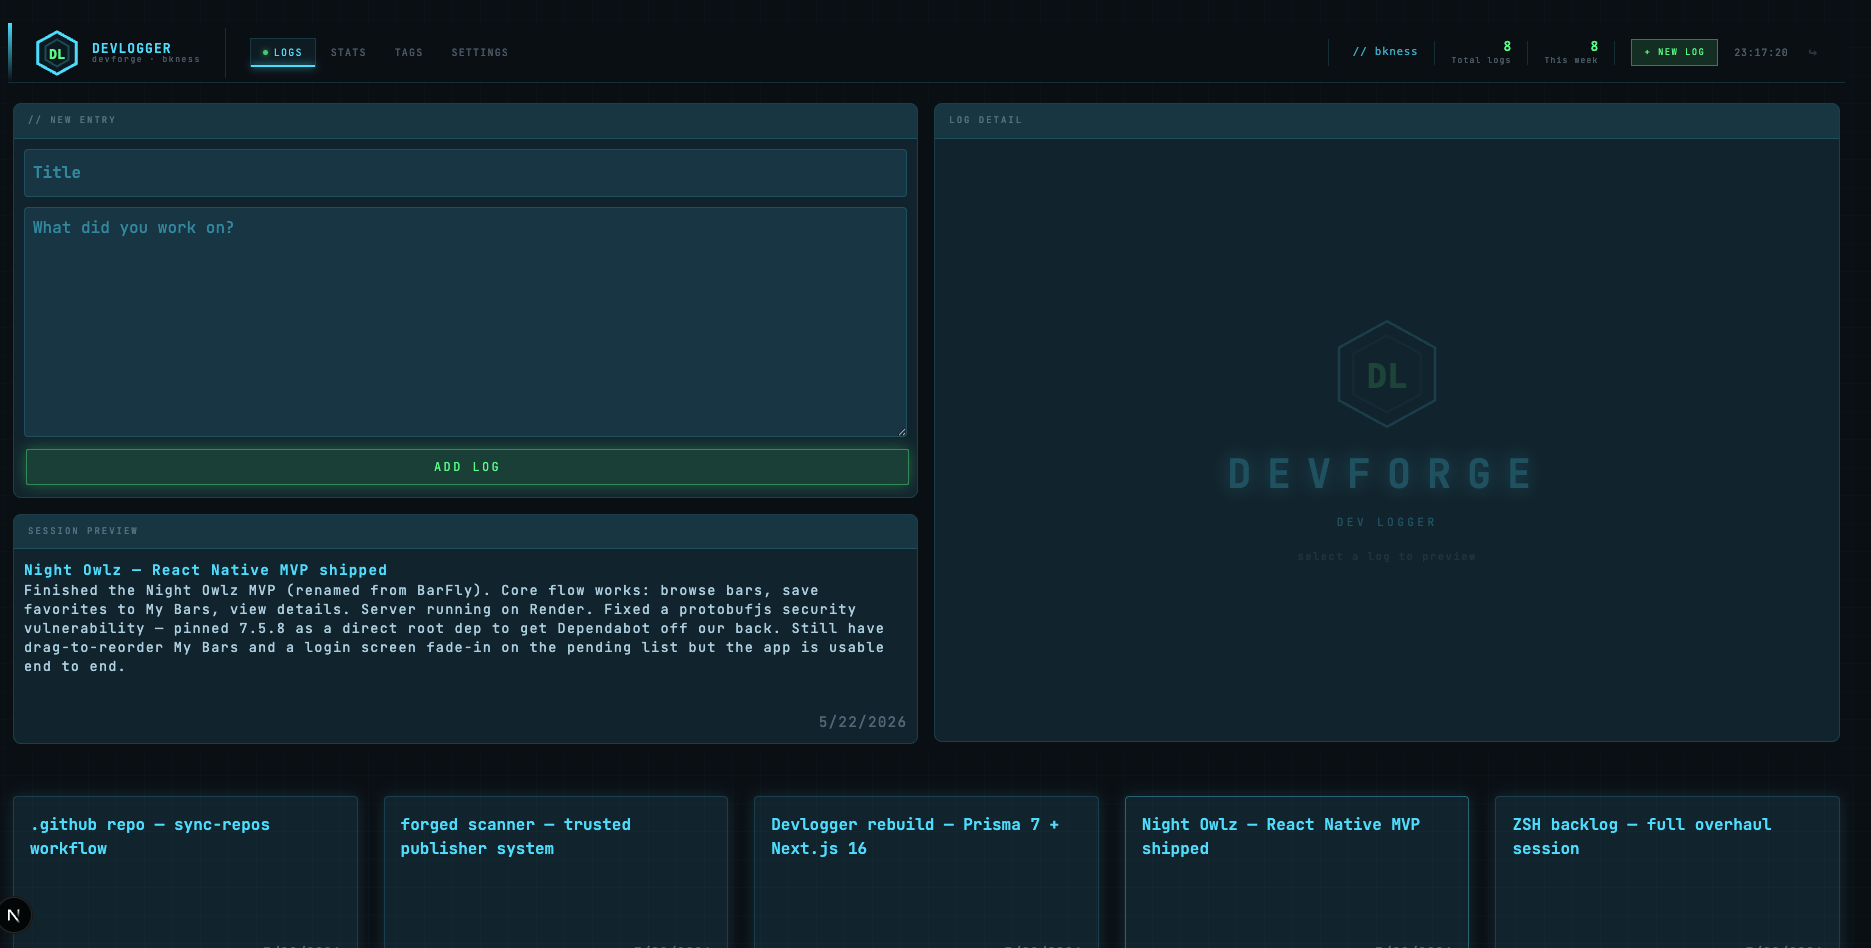
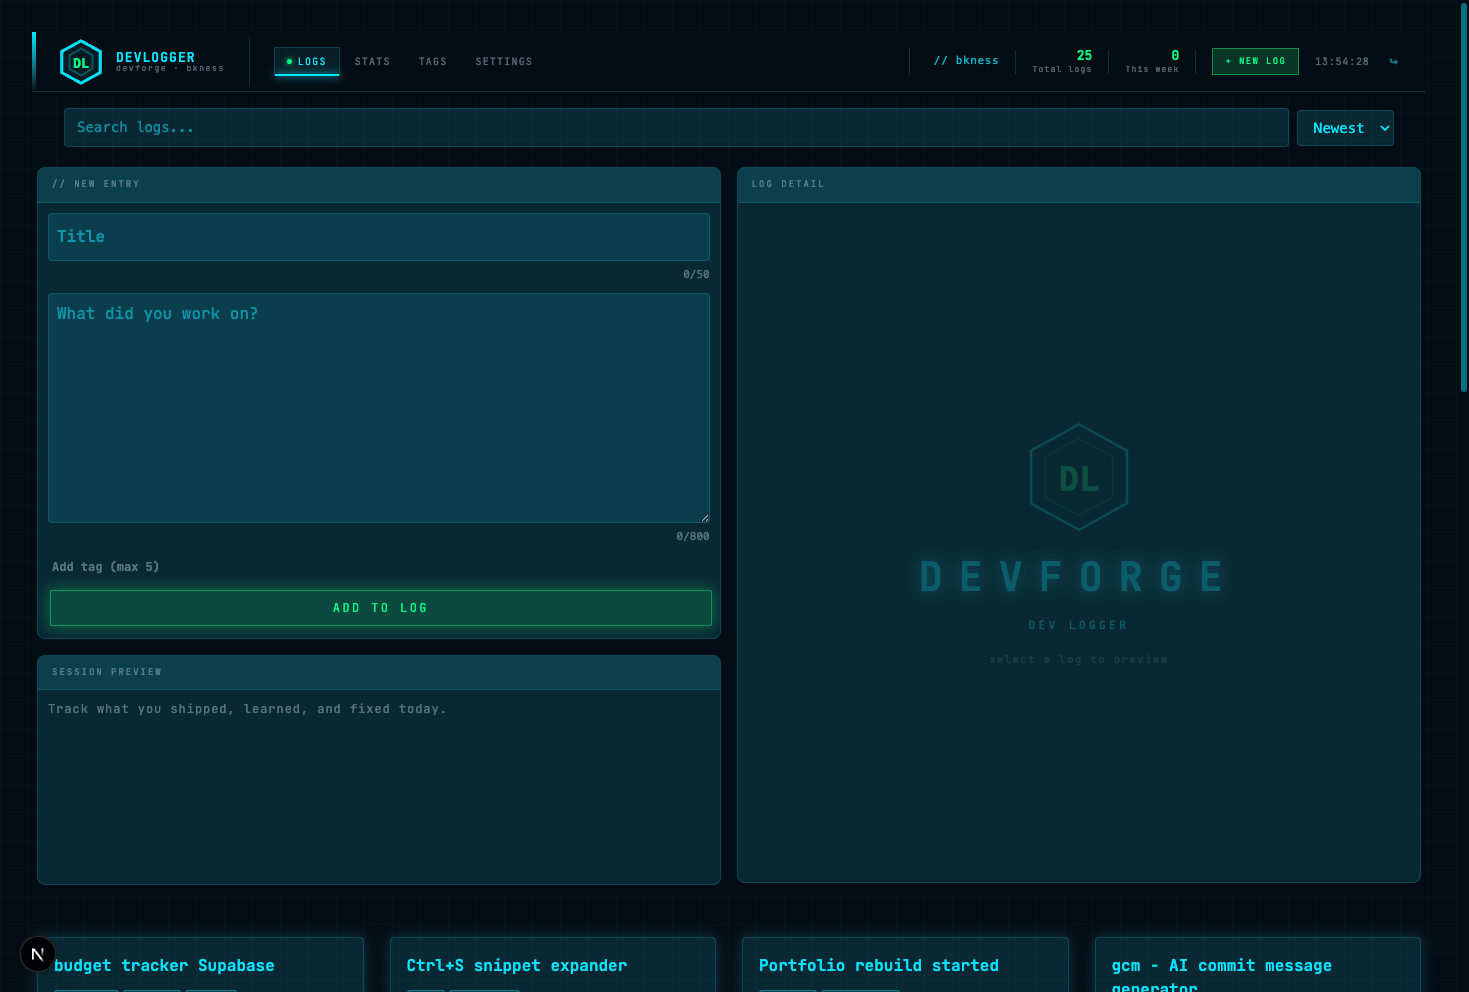
docs: rebuild README for current feature set + screenshots (#147)
The README was rewritten 2026-05-23 before Stats, Tags, search, sort, mobile nav, rate limiting, and the button variant system landed. Drifted hard.

This is a recruiter-facing rewrite: a 5-screenshot showcase up top, Features regrouped by area (Logs / Stats / Tags / Auth / Theme system), and a new Architecture highlights section that calls out the non-trivial decisions — driver adapter pattern, Cache Components with tag-scoped invalidation, lifted filter state composing search + tag + sort, the .btn variant system, the in-memory rate limiter, and the constants source-of-truth.

Project Structure and the schema snippet refreshed against current files. Scripts section gained npm run seed.

diff --git a/README.md b/README.md
@@ -2,33 +2,60 @@
 
 # Dev Logger
 
-A full-stack developer logging app for capturing notes, progress, and breakthroughs as you build. Full authentication, per-user log management, and a theme system with **27 unique visual combinations** — all backed by PostgreSQL and built issue by issue as a learning project.
+A full-stack developer logging app for capturing notes, progress, and breakthroughs as you build. Authenticated per-user logs, a tag system, weekly stats, and a layered theme engine — built issue-by-issue as a learning project.
 
 ---
 
-## Features
-
-- **Authentication** — register/login with hashed credentials (NextAuth.js v5 + bcrypt)
-- **Full CRUD** — create, edit, and delete dev logs with inline confirmation guards
-- **Per-user isolation** — every log is scoped to the authenticated user (IDOR-safe)
-- **27 theme combinations** — 3 app themes × 3 nav styles × 3 toast styles, persisted to your profile
-- **Smart caching** — Next.js 16 `"use cache"` + tag-based invalidation, scoped per user
-- **Responsive grid** — 1 → 5 columns depending on viewport
-- **Context-aware toasts** — different messages for create / update / delete / cancel / validation
-
----
-
-## Screenshots
+## At a glance
 
 | Cyber | Terminal | Military |
 |---|---|---|
 | ![cyber theme](/public/images/screenshots/cyber.png) | ![terminal theme](/public/images/screenshots/terminal.png) | ![military theme](/public/images/screenshots/military.png) |
 
+| Stats view | Tags view |
+|---|---|
+| ![stats view](/public/images/screenshots/stats.png) | ![tags view](/public/images/screenshots/tags.png) |
+
 ---
 
-## Theme System
+## Features
 
-Three independent layers combine for **27 unique looks**:
+### Logs
+- **Full CRUD** with inline confirm-discard and confirm-delete guards
+- **Tag chips** — type + Enter / comma to add, max 5 per log, normalized to `[a-z0-9-]+`
+- **Search + sort** — client-side filter by title/content, sort by newest/oldest/A–Z, both compose with the active tag filter
+- **Live character counters** — title (50) and content (800) turn red over budget
+- **Loading states** — Add / Save / Delete show pending state via `try/finally` guards
+- **Responsive grid** — 1 → 5 columns based on viewport
+
+### Stats
+- 5 stat cards — total, this week, this month, day streak, most active weekday
+- 14-day activity chart scaled to the peak day
+- Top tags with proportional usage bars
+- Early-return empty state when no logs exist
+
+### Tags
+- Tag cloud with count badges, click-to-filter
+- Filtered log list — only matching logs render while a tag is active
+- Composes with search so you can narrow by tag + keyword simultaneously
+
+### Authentication
+- NextAuth.js v5 credentials provider with bcrypt hashing
+- Stateless JWT sessions, edge-safe
+- Rate limiting — 5 register / 10 signin per minute per IP, in-memory defense-in-depth
+- Per-user isolation — every log query and mutation is `userId`-scoped (IDOR-safe)
+
+### Theme system
+- **27 unique combinations** — 3 app themes × 3 nav layouts × 3 toast layouts
+- Persisted to your profile via a `settings` JSON column — survives sign-out
+- One-click "Reset to defaults" in the settings panel
+- Mobile-responsive nav — unified hamburger menu replaces all 3 nav variants at ≤768px
+
+---
+
+## Theme system
+
+Three independent layers combine for 27 looks:
 
 | Layer | Options |
 |---|---|
@@ -36,25 +63,36 @@ Three independent layers combine for **27 unique looks**:
 | **Nav style** | `A` Command Bar · `B` Slim Signal · `C` Terminal Path |
 | **Toast style** | `A` Signal bar · `B` HUD dot · `C` Minimal + ESC dismiss |
 
-Settings are persisted to a `settings` JSON column on your user record — your choice survives sign-out.
+Theme tokens are CSS variables (`--primary`, `--surface`, `--btn-bg`, etc.). The component layer is theme-agnostic — adding a fourth app theme is one variable block, not a refactor.
 
 ---
 
-## Tech Stack
+## Tech stack
 
 | Layer | Technology |
 |---|---|
-| Framework | Next.js 16.2.6 (App Router, Turbopack) |
+| Framework | Next.js 16.2.6 (App Router, Turbopack, Cache Components) |
 | Language | TypeScript |
 | Styling | Tailwind CSS 4 |
 | Auth | NextAuth.js v5 (beta) — credentials + JWT |
-| Database | PostgreSQL (Docker) |
-| ORM | Prisma 7 (driver adapter, custom output path) |
+| Database | PostgreSQL (Docker locally) |
+| ORM | Prisma 7 (driver adapter pattern, custom output path) |
 | Runtime | React 19 / Server Actions |
 
 ---
 
-## Getting Started
+## Architecture highlights
+
+- **Prisma 7 driver adapter** — uses `PrismaPg` from `@prisma/adapter-pg` instead of the legacy datasource URL, with the generated client output redirected under `app/generated/prisma` for cleaner imports.
+- **Cache Components + tag invalidation** — `getLogs(userId)` is wrapped with `"use cache"` and a per-user `cacheTag`, so mutations revalidate only the affected user's slice.
+- **Lifted shared state** — `query`, `sortBy`, and `activeTag` all live in `DashboardShell`, with a single `useMemo` filter that composes search + tag filter + sort. Views receive the filtered list as a prop.
+- **Button variant system** — `.btn` / `.btn--primary` / `.btn--danger` / `.btn--ghost` consolidates the action-row buttons across all 3 themes via CSS variable theming.
+- **In-memory rate limiter** — module-scoped `Map` per process with rolling-window buckets. Defense-in-depth on a learning project; the swap path to Upstash/Redis is documented inline.
+- **Type-safe constants** — limits (`TITLE_MAX`, `CONTENT_MAX`, `TAG_MAX_COUNT`, `TAG_MAX_LENGTH`) live in `lib/constants.ts` so validation messages, counters, and server-action checks all read from one source.
+
+---
+
+## Getting started
 
 ### Prerequisites
 
@@ -111,7 +149,7 @@ Open [http://localhost:3000](http://localhost:3000), register an account, and st
 
 ---
 
-## Project Structure
+## Project structure
 
 ```
 devlogger/
@@ -123,23 +161,29 @@ devlogger/
 │   ├── layout.tsx              # Root layout + SessionProvider
 │   └── generated/prisma/       # Prisma 7 client output
 ├── components/
-│   ├── DashboardShell.tsx      # Theme state, settings persistence, idle watermark
-│   ├── LogDashboard.tsx        # Grid layout + empty state
-│   ├── LogCard.tsx             # Individual card — edit/delete with confirmation guard
-│   ├── LogForm.tsx             # New log form
+│   ├── DashboardShell.tsx      # Theme + filter state, lifted query/sort/activeTag
+│   ├── LogDashboard.tsx        # Grid + search bar + sort dropdown + empty states
+│   ├── LogCard.tsx             # Card with tag chips, keyboard-accessible
+│   ├── LogForm.tsx             # Create form + edit panel (confirm-discard, confirm-delete)
 │   ├── Navbar.tsx              # Renders nav theme A / B / C
-│   ├── SettingsPanel.tsx       # Theme picker (app + nav + toast)
+│   ├── MobileNav.tsx           # Unified hamburger menu for ≤768px
+│   ├── SettingsPanel.tsx       # Theme picker + reset-to-defaults
+│   ├── StatsView.tsx           # 5 cards + 14-day chart + top tags
+│   ├── TagsView.tsx            # Tag cloud + filtered log list
 │   └── Toast.tsx               # Renders toast theme A / B / C
 ├── lib/
-│   ├── auth-actions.ts         # register() server action (bcrypt hash)
+│   ├── auth-actions.ts         # register() server action (bcrypt, rate-limited)
+│   ├── constants.ts            # TITLE_MAX, CONTENT_MAX, TAG_MAX_COUNT, TAG_MAX_LENGTH
 │   ├── db.ts                   # Prisma 7 singleton (globalThis + PrismaPg adapter)
 │   ├── logs.ts                 # getLogs() — cached per userId with cacheTag
+│   ├── rate-limit.ts           # In-memory IP-keyed rolling-window limiter
+│   ├── stats.ts                # Shared week/month boundary helpers
 │   └── types.ts                # Shared TypeScript types
 ├── prisma/
 │   ├── schema.prisma           # User + Log models
 │   └── migrations/             # Migration history
 ├── auth.config.ts              # Edge-safe NextAuth config (no Prisma imports)
-├── auth.ts                     # Full NextAuth config (Node.js, Prisma, bcrypt)
+├── auth.ts                     # Full NextAuth config (Node.js, Prisma, bcrypt, rate-limited)
 ├── prisma.config.ts            # Prisma 7 DB URL config (replaces datasource url)
 ├── proxy.ts                    # Next.js 16 middleware (auth route protection)
 └── docker-compose.yml          # Postgres + pgAdmin stack
@@ -147,7 +191,7 @@ devlogger/
 
 ---
 
-## Database Schema
+## Database schema
 
 ```prisma
 model User {
@@ -162,13 +206,14 @@ model User {
 }
 
 model Log {
-  id        Int      @id @default(autoincrement())
+  id        Int       @id @default(autoincrement())
   title     String
   content   String
+  tags      String[]  @default([])
   userId    String
-  user      User     @relation(fields: [userId], references: [id])
-  createdAt DateTime @default(now())
-  updatedAt DateTime @updatedAt
+  user      User      @relation(fields: [userId], references: [id])
+  createdAt DateTime  @default(now())
+  updatedAt DateTime  @updatedAt
 }
 ```
 
@@ -183,6 +228,7 @@ npm run dev      # Start dev server (Turbopack)
 npm run build    # Production build
 npm run start    # Start production server
 npm run lint     # Run ESLint
+npm run seed     # Seed sample logs (tsx + .env)
 ```
 
 ---